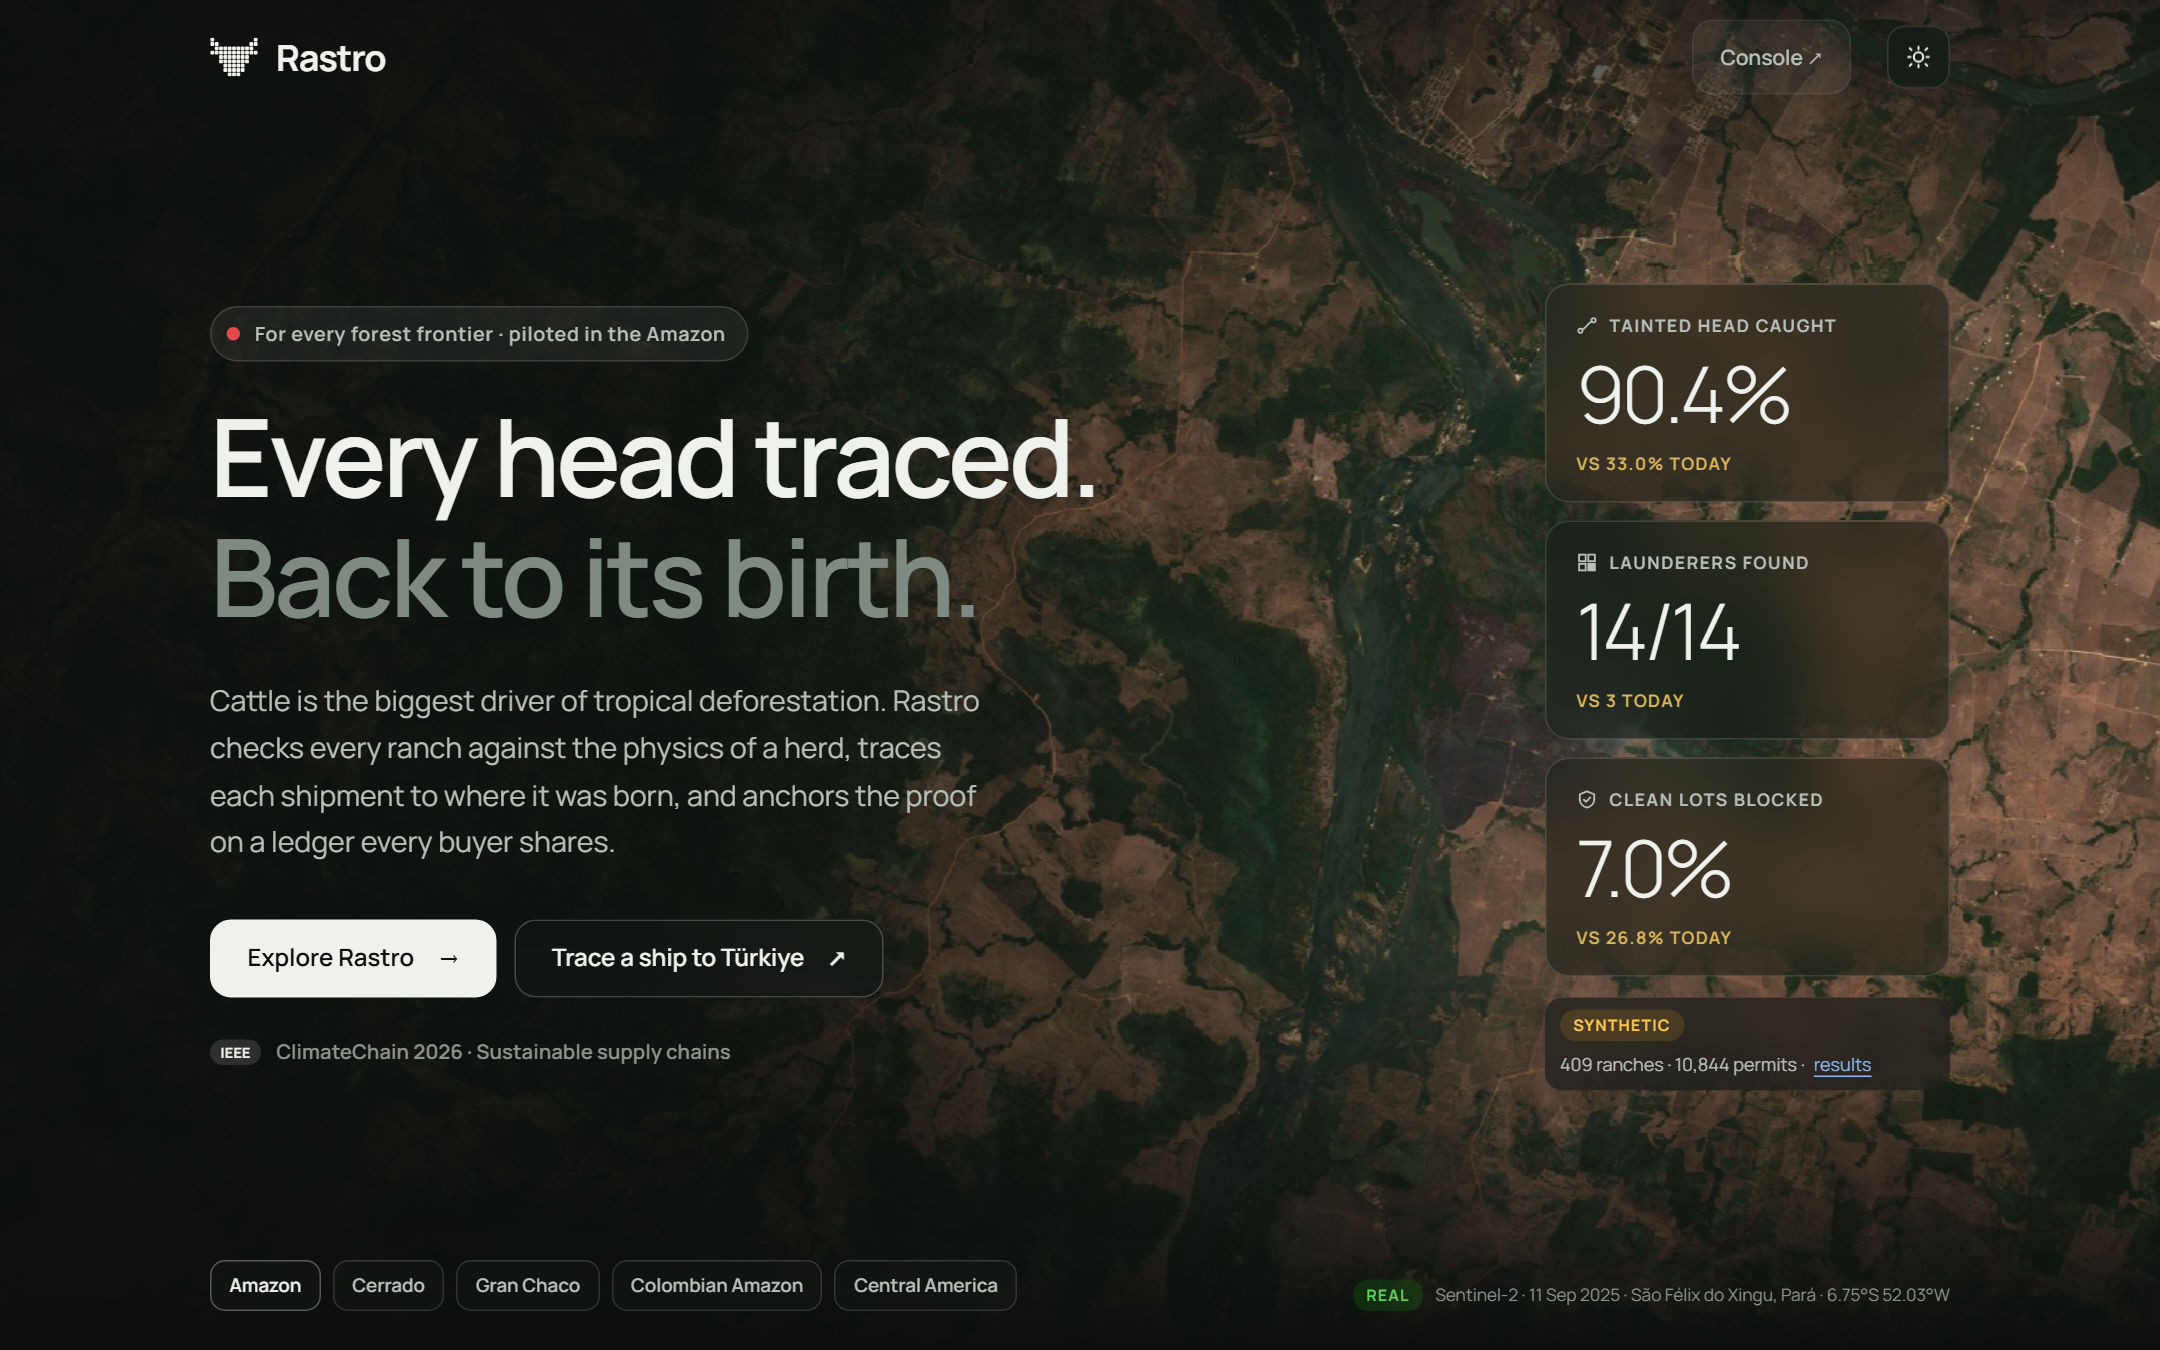
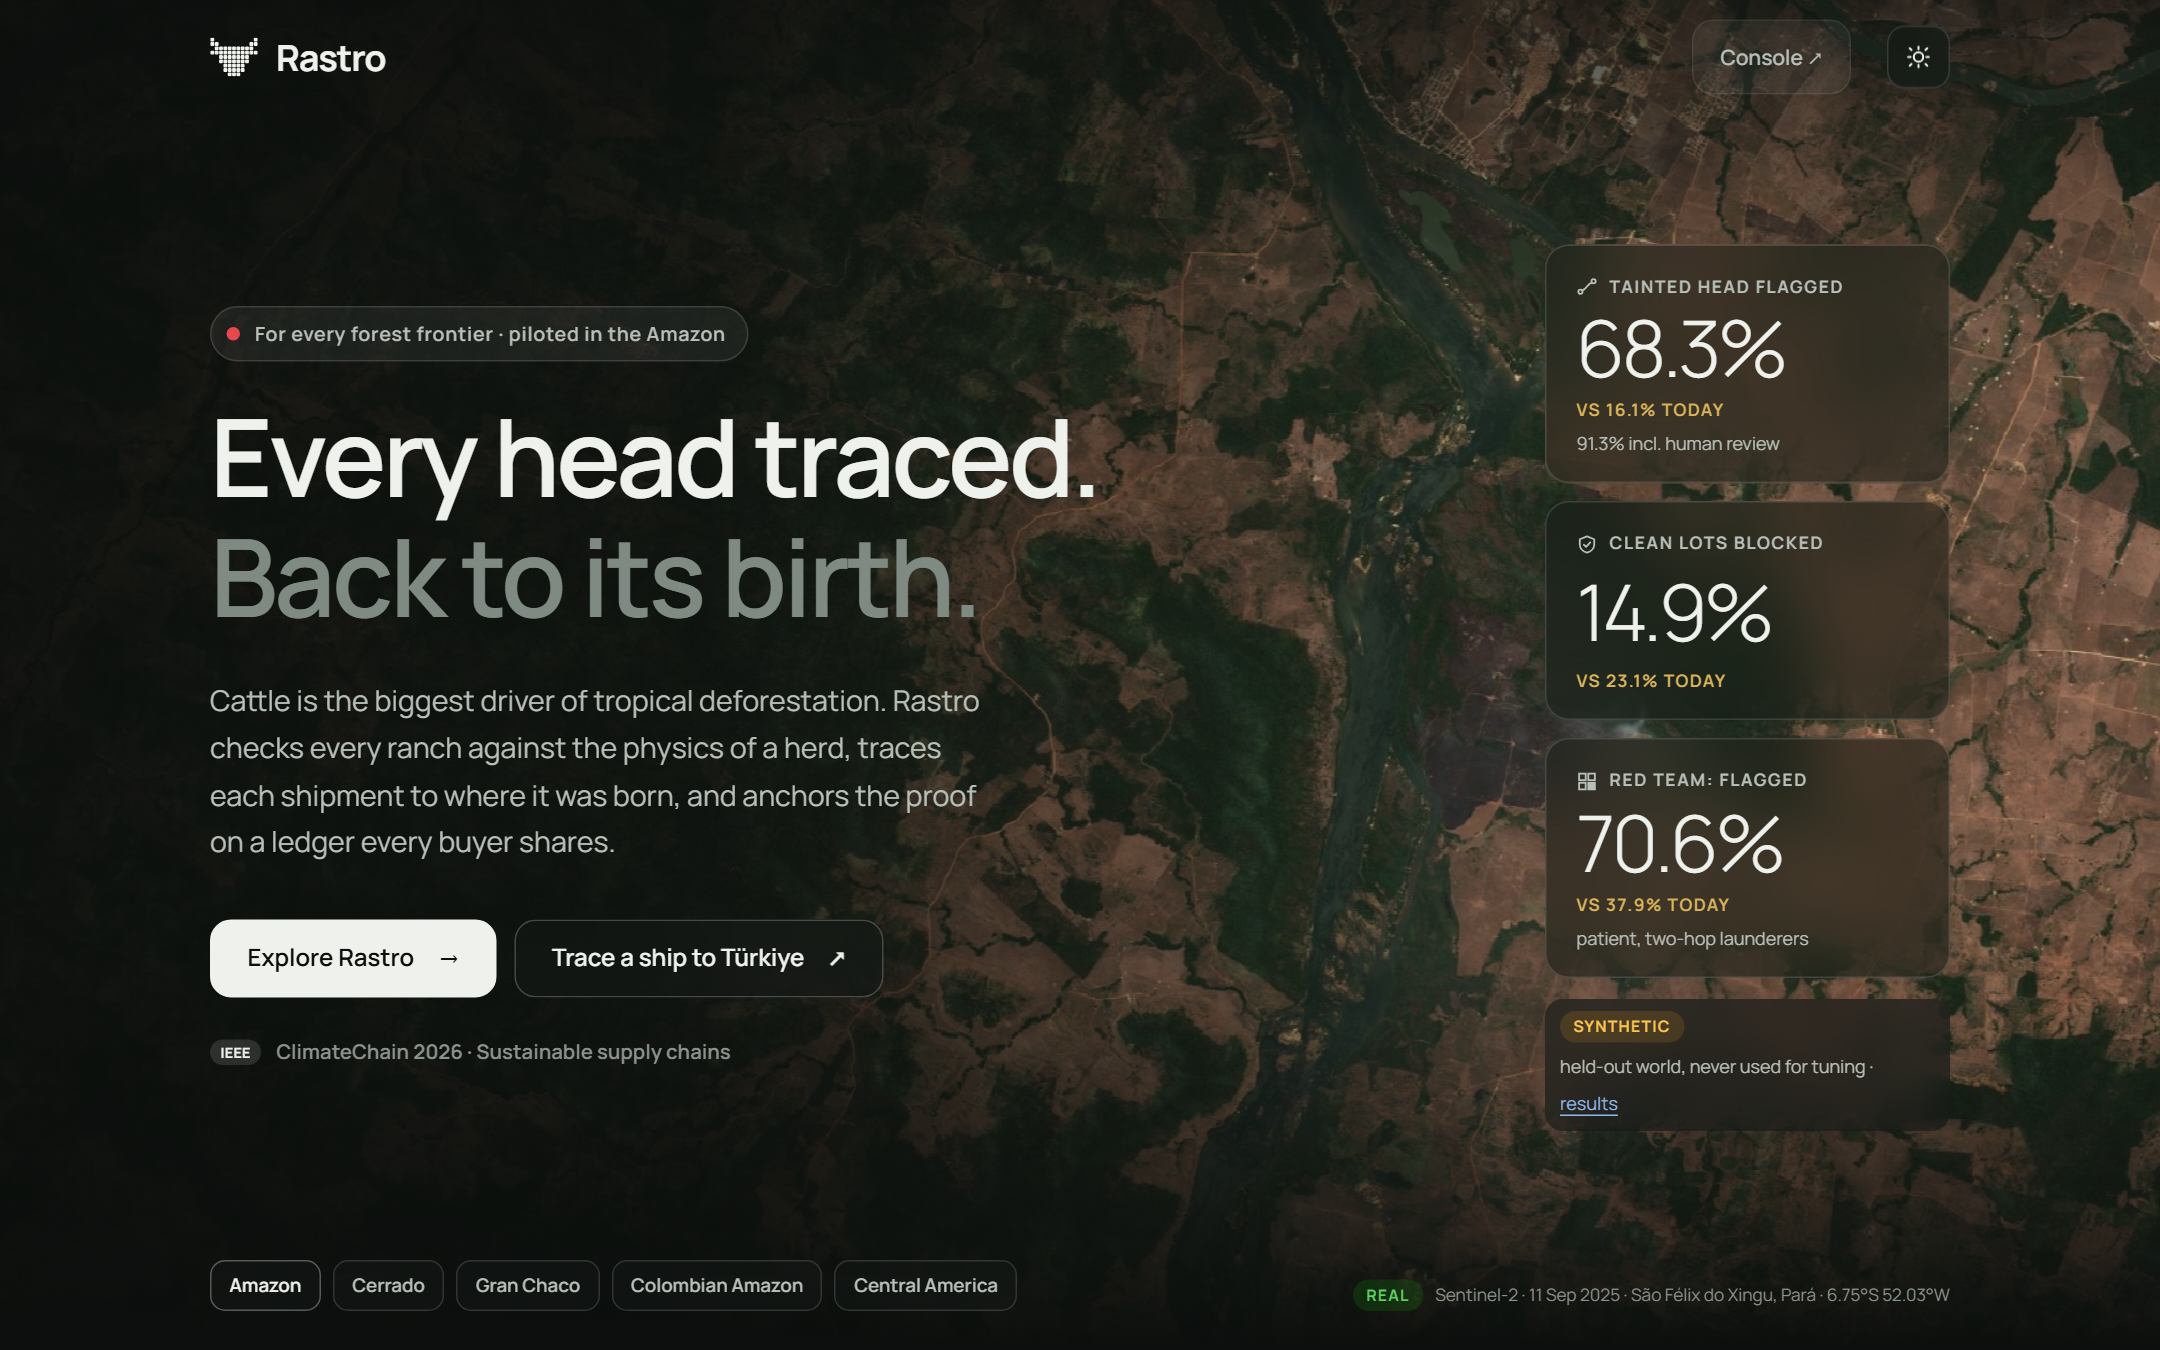
Landing page quotes held-out results

Changed region(s): [[0.7134, 0.1556, 0.8995, 0.7156], [0.7134, 0.7467, 0.8995, 0.84]]

diff --git a/web/src/components/Hero.tsx b/web/src/components/Hero.tsx
@@ -1,24 +1,15 @@
 import { useEffect, useRef, useState, type ReactNode } from 'react';
-import { useData } from '../lib/data';
 import { fmt } from '../lib/format';
+import { HELDOUT, HELDOUT_LABEL } from '../lib/heldout';
 import { SourceTag } from './Tags';
 
 const reduced = () => typeof window !== 'undefined' && window.matchMedia('(prefers-reduced-motion: reduce)').matches;
 
 export function Hero({ onEnter, onTrace, entered }: { onEnter: () => void; onTrace: () => void; entered: boolean }) {
-  const metrics = useData('metrics');
-  const m = metrics.data;
   const img = useRef<HTMLImageElement>(null);
   const [imgReady, setImgReady] = useState(false);
-
-  const caught = m?.eval?.rastro?.tainted_head_caught_pct ?? m?.headline?.tainted_head_pct_caught_rastro;
-  const caughtSq = m?.eval?.status_quo?.tainted_head_caught_pct;
-  const found = m?.headline?.laundering_ranches_found;
-  const total = m?.headline?.laundering_ranches_total;
-  const foundSq = total != null && m?.eval?.status_quo?.network_recall != null ? Math.round(m.eval.status_quo.network_recall * total) : null;
-  const blocked = m?.eval?.rastro?.clean_lots_failed_pct;
-  const blockedSq = m?.eval?.status_quo?.clean_lots_failed_pct;
-  const tag = metrics.origin === 'mock' ? 'mock' : 'synthetic';
+  const ref = HELDOUT.reference;
+  const red = HELDOUT.redteam;
 
   useEffect(() => entrance(img.current), []);
 
@@ -75,11 +66,11 @@ export function Hero({ onEnter, onTrace, entered }: { onEnter: () => void; onTra
         </div>
 
         <div className="hero-cards" role="list" aria-label="Results on the simulated supply chain">
-          <Glass i={0} label="Tainted head caught" icon={<IconTrace />} value={caught != null ? `${fmt(caught, 1)}%` : '–'} sub={caughtSq != null ? `vs ${fmt(caughtSq, 1)}% today` : 'before slaughter or export'} accent />
-          <Glass i={1} label="Launderers found" icon={<IconRanch />} value={found != null && total != null ? `${found}/${total}` : '–'} sub={foundSq != null ? `vs ${foundSq} today` : 'laundering ranches'} />
-          <Glass i={2} label="Clean lots blocked" icon={<IconShield />} value={blocked != null ? `${fmt(blocked, 1)}%` : '–'} sub={blockedSq != null ? `vs ${fmt(blockedSq, 1)}% today` : 'false alarms'} />
+          <Glass i={0} label="Tainted head flagged" icon={<IconTrace />} value={`${fmt(ref.flaggedPct, 1)}%`} sub={`vs ${fmt(ref.baselinePct, 1)}% today`} note={`${fmt(ref.flagOrReviewPct, 1)}% incl. human review`} />
+          <Glass i={1} label="Clean lots blocked" icon={<IconShield />} value={`${fmt(ref.cleanBlockedPct, 1)}%`} sub={`vs ${fmt(ref.baselineCleanBlockedPct, 1)}% today`} />
+          <Glass i={2} label="Red team: flagged" icon={<IconRanch />} value={`${fmt(red.flaggedPct, 1)}%`} sub={`vs ${fmt(red.baselinePct, 1)}% today`} note="patient, two-hop launderers" />
           <p className="hero-cards-note" data-enter="settle" style={{ ['--i' as string]: 3 }}>
-            <SourceTag kind={tag} title="Measured on the simulated supply chain against its ground truth" /> 409 ranches · 10,844 permits ·{' '}
+            <SourceTag kind="synthetic" title={HELDOUT_LABEL} /> held-out world, never used for tuning ·{' '}
             <button className="linkish" onClick={onEnter}>results</button>
           </p>
         </div>
@@ -109,15 +100,16 @@ export function Hero({ onEnter, onTrace, entered }: { onEnter: () => void; onTra
 // Frontiers where cattle ranching is a leading driver of forest loss. Rastro's pilot data is the first one.
 const FRONTIERS = ['Amazon', 'Cerrado', 'Gran Chaco', 'Colombian Amazon', 'Central America'];
 
-function Glass({ i, label, icon, value, sub, accent }: { i: number; label: string; icon: ReactNode; value: string; sub: string; accent?: boolean }) {
+function Glass({ i, label, icon, value, sub, note }: { i: number; label: string; icon: ReactNode; value: string; sub: string; note?: string }) {
   return (
     <article className="glass" role="listitem" data-enter="card" style={{ ['--i' as string]: i }}>
       <span className="glass-label">
         {icon}
         {label}
       </span>
-      <span className={`glass-value${accent ? ' accent' : ''}`}>{value}</span>
+      <span className="glass-value">{value}</span>
       <span className="glass-sub">{sub}</span>
+      {note && <span className="glass-note">{note}</span>}
     </article>
   );
 }

diff --git a/web/src/components/ResultsSection.tsx b/web/src/components/ResultsSection.tsx
@@ -1,6 +1,7 @@
 import { useMemo, useRef, useState } from 'react';
 import { useData } from '../lib/data';
 import { ChartCard, DataTable, PairBars, SERIES, STATUS, StackBars } from './charts';
+import { HELDOUT, HELDOUT_LABEL } from '../lib/heldout';
 import { useNear } from './MapSection';
 import { SourceTag } from './Tags';
 
@@ -12,27 +13,18 @@ const VERDICT = [
 ];
 
 export function ResultsSection() {
-  const metrics = useData('metrics');
-  const m = metrics.data;
   const [run, setRun] = useState<'base' | 'stress'>('base');
   const ref = useRef<HTMLElement>(null);
   const near = useNear(ref, '600px');
   const ships = useData('shipments', near);
-  const tag = <SourceTag kind={metrics.origin === 'mock' ? 'mock' : 'synthetic'} title="Measured on the simulated supply chain against its ground truth" />;
+  const tag = <SourceTag kind="synthetic" title={HELDOUT_LABEL} />;
 
-  const block = run === 'stress' && m?.stress_test ? m.stress_test : m?.eval;
-  const rows = block
-    ? [
-        { label: 'Tainted head caught', note: 'higher is better', a: block.status_quo.tainted_head_caught_pct ?? 0, b: block.rastro.tainted_head_caught_pct ?? 0 },
-        {
-          label: 'Dirty sources found',
-          note: 'higher is better',
-          a: pctOf(block.status_quo.dirty_sources_found, block.status_quo.dirty_sources_total),
-          b: pctOf(block.rastro.dirty_sources_found, block.rastro.dirty_sources_total),
-        },
-        { label: 'Clean lots blocked', note: 'lower is better', a: block.status_quo.clean_lots_failed_pct ?? 0, b: block.rastro.clean_lots_failed_pct ?? 0 },
-      ]
-    : [];
+  const h = run === 'stress' ? HELDOUT.redteam : HELDOUT.reference;
+  const rows = [
+    { label: 'Tainted head flagged', note: 'higher is better', a: h.baselinePct, b: h.flaggedPct },
+    { label: 'Flagged or sent to review', note: 'today has no review step', a: h.baselinePct, b: h.flagOrReviewPct },
+    { label: 'Clean lots blocked', note: 'lower is better', a: h.baselineCleanBlockedPct, b: h.cleanBlockedPct },
+  ];
 
   const markets = useMemo(() => {
     const list = (ships.data ?? []).filter((s) => s.kind === 'voyage');
@@ -67,11 +59,11 @@ export function ResultsSection() {
           <button aria-pressed={run === 'base'} onClick={() => setRun('base')}>
             Normal launderers
           </button>
-          <button aria-pressed={run === 'stress'} onClick={() => setRun('stress')} disabled={!m?.stress_test}>
+          <button aria-pressed={run === 'stress'} onClick={() => setRun('stress')}>
             Red team: patient, two hops
           </button>
           <span className="viz-filters-note">
-            {block && 'lots' in block && block.lots ? `${block.lots.toLocaleString('en')} lots scored` : ''}
+            {HELDOUT_LABEL}
           </span>
         </div>
 
@@ -79,7 +71,7 @@ export function ResultsSection() {
           <ChartCard
             id="how-eval"
             title="Today's check vs Rastro"
-            sub="Share of each, on the simulated Pará supply chain"
+            sub="Share of tainted cattle and clean lots, on a world the model never saw"
             tag={tag}
             legend={[
               { label: 'Rastro', color: SERIES.rastro },
@@ -87,7 +79,7 @@ export function ResultsSection() {
             ]}
             table={<DataTable head={['Metric', "Today's check", 'Rastro']} rows={rows.map((r) => [r.label, `${r.a.toFixed(1)}%`, `${r.b.toFixed(1)}%`])} />}
           >
-            {rows.length ? <PairBars rows={rows} /> : <p className="viz-empty">Metrics not available yet.</p>}
+            <PairBars rows={rows} />
           </ChartCard>
 
           <ChartCard
@@ -105,9 +97,6 @@ export function ResultsSection() {
   );
 }
 
-function pctOf(a?: number, b?: number) {
-  return a != null && b ? Math.round((a / b) * 1000) / 10 : 0;
-}
 function sum(r: Record<string, number>) {
   return Object.values(r).reduce((a, b) => a + b, 0);
 }

diff --git a/web/src/styles/global.css b/web/src/styles/global.css
@@ -564,6 +564,7 @@ footer.site-footer .wrap { display: flex; flex-wrap: wrap; justify-content: spac
 .glass-label { display: flex; align-items: center; gap: 8px; font-size: 11.5px; font-weight: 650; letter-spacing: 0.1em; text-transform: uppercase; color: var(--ink-2); }
 .glass-value { font-weight: 300; font-size: 52px; line-height: 1; letter-spacing: -0.04em; color: var(--ink); }
 .glass-sub { font-size: 11.5px; letter-spacing: 0.08em; text-transform: uppercase; color: var(--gold); font-weight: 650; }
+.glass-note { font-size: 12px; color: var(--ink-2); margin-top: -2px; }
 .hero-cards-note { margin: 2px 0 0; font-size: 12px; color: var(--ink-2); display: flex; flex-wrap: wrap; align-items: center; gap: 6px; padding: 8px 10px; border-radius: 12px; background: rgba(var(--card-rgb), 0.62); backdrop-filter: blur(14px); -webkit-backdrop-filter: blur(14px); }
 .hero-cards-note a { color: var(--ink-2); }
 .hero-foot { width: 100%; display: flex; justify-content: space-between; align-items: flex-end; gap: 16px; padding-bottom: 26px; }
@@ -800,3 +801,5 @@ footer.site-footer .wrap { display: flex; flex-wrap: wrap; justify-content: spac
 /* Theme switch: the new theme grows as a circle from the toggle (see lib/theme.ts). */
 ::view-transition-old(root), ::view-transition-new(root) { animation: none; mix-blend-mode: normal; }
 ::view-transition-new(root) { z-index: 2; }
+
+@media (max-width: 820px) { .glass-note { display: none; } }

diff --git a/web/src/lib/heldout.ts b/web/src/lib/heldout.ts
@@ -1,0 +1,24 @@
+// Held-out evaluation headline, copied from reports/evaluation/summary.json ("headline" rows,
+// role "heldout", seed 101: a synthetic world never used for tuning). The landing page reads
+// static data, so these are pinned here; re-copy them if the evaluation is re-run.
+//
+// metrics.json holds the in-sample numbers (scored on the development world); the landing page
+// no longer quotes those.
+
+export interface HeldoutRun {
+  scenario: string;
+  flaggedPct: number; // tainted head flagged by Rastro
+  flagOrReviewPct: number; // tainted head flagged or sent to human review
+  baselinePct: number; // tainted head caught by today's direct-supplier check
+  cleanBlockedPct: number; // clean lots Rastro flags
+  baselineCleanBlockedPct: number; // clean lots today's check fails
+}
+
+export const HELDOUT_SEED = 101;
+
+export const HELDOUT: { reference: HeldoutRun; redteam: HeldoutRun } = {
+  reference: { scenario: 'S01-reference', flaggedPct: 68.34, flagOrReviewPct: 91.31, baselinePct: 16.06, cleanBlockedPct: 14.92, baselineCleanBlockedPct: 23.1 },
+  redteam: { scenario: 'S05-redteam', flaggedPct: 70.58, flagOrReviewPct: 92.46, baselinePct: 37.9, cleanBlockedPct: 12.3, baselineCleanBlockedPct: 22.84 },
+};
+
+export const HELDOUT_LABEL = `Held-out synthetic world (seed ${HELDOUT_SEED}, never used for tuning)`;

diff --git a/README.md b/README.md
@@ -136,10 +136,8 @@ has tainted head because embargoes and real post-2020 clearing exist without any
 - **Where it struggles:** with 10% of permits missing, unknown origins push 43.6% of clean lots to FLAGGED. Split lots
   and fast legitimate traders also raise false alarms. See [Limitations](#13-limitations-and-roadmap).
 
-> The landing page's headline cards (90.4% caught, 7.0% of clean lots blocked) come from the first-pass detector scored
-> on the published demo world it was developed on. The held-out table above is the number to quote. Method, leakage
-> controls and per-detector tables: [docs/evaluation.md](docs/evaluation.md) and
-> [reports/evaluation/](reports/evaluation/).
+> The site and this README quote the held-out numbers. Method, leakage controls and per-detector tables:
+> [docs/evaluation.md](docs/evaluation.md) and [reports/evaluation/](reports/evaluation/).
 
 ## 4. System overview
 
